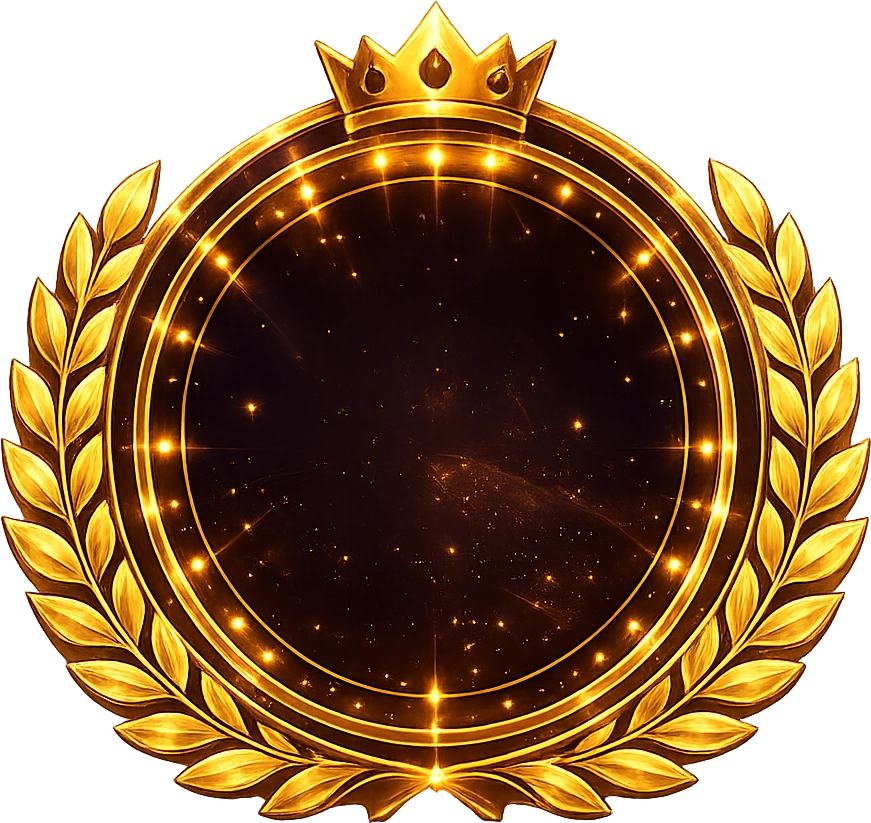
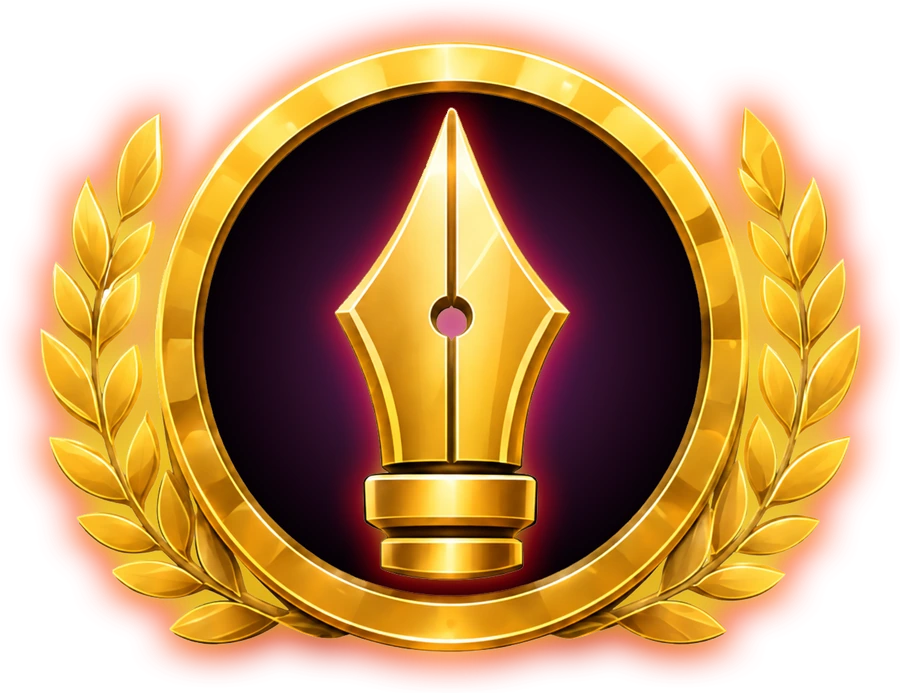
v2.141.0: Ronde voltooid dichter op de mockup, met de nieuwe medaille en een balk van code
DE MEDAILLE is de nieuwe plaat, en die draagt de pen ER AL IN. De lege krans met
het muntlogo als tweede laag erin is daarmee weg, en met hem het gereken aan het
hart van die binnencirkel.

DE BALK is nu code in plaats van art: de achthoek van alle secties, met een
gouden lijn en een donkere vulling op dertig procent, zodat de confetti en de
gloed erachter meespelen in plaats van te worden afgedekt. De middenkolom houdt
de BREEDTE van de medaille vrij en niet zijn hoogte; op zijn hoogte legde hij
zijn krans over "+75 Munten" heen.

KORTER, zoals gevraagd: de kop in kapitalen, "Geweldig gedaan!" weg, de uitleg
over kaarten en sporen weg, de voetregel met de letter weg, en de sporenrij van
twaalf naar negen woorden.

DICHTER OP DE MOCKUP: elke voortgangsrij krijgt zijn teken (het icoon van de
categorie, of de letter in een ring), en achter het percentage staat wat deze
ronde erbij bracht. Dat laatste is het enige getal op de pagina dat over DEZE
ronde gaat in plaats van over waar je staat. De quizknop kreeg zijn pijl.

diff --git a/frontend/src/components/RondeVoltooid.tsx b/frontend/src/components/RondeVoltooid.tsx
@@ -16,7 +16,7 @@
 // Verder is alles code: dezelfde GoudKader met binnenlijn als de rest van de
 // laatste schermen, zodat deze pagina bij Oefenen hoort en niet erop lijkt.
 import { useEffect, useMemo, useState } from "react";
-import { Brain, Check, Flame, Layers, RotateCw, Target, X as Kruis } from "lucide-react";
+import { Apple, Brain, Briefcase, Building2, ChevronRight, Check, Flame, Globe, Layers, PawPrint, RotateCw, Target, X as Kruis } from "lucide-react";
 import { Button } from "./Button";
 import { CloseIcon } from "./CloseIcon";
 import { GoudKader } from "./GoudKader";
@@ -27,39 +27,27 @@ import { useT } from "../i18n/i18n";
 import { sound } from "../sound/sound";
 import { colors, font, withAlpha } from "../theme/tokens";
 
-/** De krans, opgemeten op /ui/krans.webp (871 x 823).
+/** De medaille. De nieuwe plaat draagt de pen ER AL IN, dus de lege krans met
+ *  het muntlogo als tweede laag erin kan weg, en daarmee ook het gereken aan het
+ *  hart van die binnencirkel.
  *
- *  Het donkere binnenveld is met een flood fill vanuit het hart gevonden: 572 bij
- *  576 pixels, oppervlak 253593 tegen 258767 voor een perfecte ellips met die
- *  doos, dus het IS een cirkel. Daar gaat het muntlogo in. De krans zelf hangt
- *  hoger dan zijn doos suggereert, want de kroon zit erbovenop; vandaar dat het
- *  hart van de cirkel op 53,6% van de hoogte ligt en niet op de helft. */
-const KRANS = { verh: 871 / 823, hartX: 0.4994, hartY: 0.5358, cirkel: 0.6567 };
+ *  ?v=2 omdat de plaat is vervangen: /ui/ staat cache-first in de service
+ *  worker, dus zonder nieuwe URL houdt een geinstalleerde app de oude. */
+const KRANS_ART = "/ui/krans.webp?v=2";
+/** Verhouding van die plaat (1294 x 996 na het uitsnijden). Nodig om in de balk
+ *  zijn BREEDTE vrij te houden: reserveer je alleen zijn hoogte, dan legt hij
+ *  zijn krans over "+75 Munten" heen. */
+const KRANS_VERH = 1294 / 996;
 
-/** De balk, opgemeten op /ui/balk-goud.webp (1292 x 281).
- *
- *  De gouden lijst loopt boven tot y 27 en onder vanaf y 219; links en rechts
- *  is de rand schuin, dus de veilige binnenmaat is gemeten op een kwart en
- *  driekwart hoogte (x 82..1210 en 106..1187). Het hart van het VELD ligt op
- *  43,8% van de hoogte en niet op de helft: de onderrand met zijn gloed is
- *  dikker dan de bovenrand. */
-const BALK = { verh: 1292 / 281, l: 0.055, r: 0.055, t: 0.096, b: 0.221, hart: 0.438 };
+/** Hoe hoog de medaille is ten opzichte van de balk. Boven de 1 steekt hij er
+ *  boven en onder uit en wordt de balk zijn voetstuk; dat is wat de mockup doet
+ *  en het is ook wat het beeld draagt. */
+const KRANS_OP_BALK = 1.5;
 
-/** Hoe groot de krans is ten opzichte van de balk. Op 1 zou hij precies zo hoog
- *  zijn als de balk en dan is het een medaille IN een balk; hierboven steekt hij
- *  er boven en onder uit en wordt de balk zijn voetstuk. Dat is wat de mockup
- *  doet en het is ook wat het beeld draagt.
- *
- *  1,62 en niet 1,75: bij 1,75 beslaat de krans 44% van het veld en dan lag hij
- *  over "Ervaring" en "Munten" heen. Zie MIDDEN. */
-const KRANS_OP_BALK = 1.62;
-
-/** Hoe breed de middenkolom van de balk is, als deel van het VELD. Daar staat de
- *  krans, dus dit moet minstens zijn breedte zijn, anders schuift de tekst
- *  eronder. De krans meet KRANS_OP_BALK / BALK.verh / KRANS.verh van de
- *  balkbreedte, wat op deze getallen 33,3% is; het veld is 89% van de balk, dus
- *  de krans is 37,4% van het veld en 40% laat er nog een kier omheen. */
-const MIDDEN = "40%";
+/** De hoogte van de balk zelf, in punten. De balk is nu code en geen plaat meer,
+ *  dus hij heeft geen verhouding die zijn hoogte bepaalt: die komt uit wat erin
+ *  staat (een teken van 22 met een getal van 20 erboven een label van 10). */
+const BALK_HOOG = 62;
 
 const SNIPPERS = [colors.gold, colors.goldHi, colors.violet, colors.green, "#FF7AC2", colors.orange];
 
@@ -195,29 +183,28 @@ function XpTeken({ maat = 30 }: { maat?: number }) {
   );
 }
 
-/** De kop: krans op de balk, met links de XP en rechts de munten.
+/** De kop: de medaille op de balk, met links de XP en rechts de munten.
  *
- *  De krans ligt als losse laag OVER de balk en telt niet mee voor de hoogte
- *  van de balk; de ruimte die hij erboven nodig heeft komt als padding op het
- *  omhulsel. Anders zou de balk meegroeien met de krans en zijn verhouding
- *  verliezen. */
+ *  De balk is CODE en geen plaat: een brede gouden achthoeklijn met een donkere
+ *  vulling op dertig procent, zodat de confetti en de gloed erachter meespelen
+ *  in plaats van te worden afgedekt. Dezelfde achthoek als alle secties in de
+ *  app, dus hij hoort er vanzelf bij.
+ *
+ *  De medaille ligt als losse laag OVER de balk en telt niet mee voor de hoogte;
+ *  de ruimte die hij erboven en eronder nodig heeft komt als padding op het
+ *  omhulsel. */
 function Kroon({ xp, munten }: { xp: number; munten: number }) {
   const { t } = useT();
+  const medaille = BALK_HOOG * KRANS_OP_BALK;
+  const oversteek = (medaille - BALK_HOOG) / 2;
   return (
-    <div style={{ position: "relative", width: "100%", paddingTop: `${((KRANS_OP_BALK - 1) * 100) / BALK.verh / 2}%` }}>
-      <div style={{ position: "relative", width: "100%", aspectRatio: `${BALK.verh}` }}>
-        <img
-          src="/ui/balk-goud.webp" alt="" aria-hidden draggable={false}
-          style={{ position: "absolute", inset: 0, width: "100%", height: "100%", display: "block" }}
-        />
-        {/* Het veld binnen de lijst. De middenkolom is lucht: daar staat de
-            krans, en tekst eronder zou erachter verdwijnen. */}
+    <div style={{ position: "relative", width: "100%", paddingTop: oversteek, paddingBottom: oversteek }}>
+      <GoudKader hoek={16} rond={2.5} dik={0.9} vulKleur="rgba(6,2,18,.3)" binnenlijn binnenSterkte={0.16} padding={0}>
         <div
           style={{
-            position: "absolute",
-            left: `${BALK.l * 100}%`, right: `${BALK.r * 100}%`,
-            top: `${BALK.t * 100}%`, bottom: `${BALK.b * 100}%`,
-            display: "grid", gridTemplateColumns: `1fr ${MIDDEN} 1fr`, alignItems: "center", gap: 2,
+            height: BALK_HOOG,
+            display: "grid", gridTemplateColumns: `1fr ${Math.round(medaille * KRANS_VERH + 6)}px 1fr`,
+            alignItems: "center", gap: 2, padding: "0 14px",
           }}
         >
           <Winst teken={<XpTeken maat={22} />} waarde={xp} label={t("rvXp")} kleur={colors.ink} />
@@ -227,35 +214,18 @@ function Kroon({ xp, munten }: { xp: number; munten: number }) {
             waarde={munten} label={t("rvMunten")} kleur={colors.gold} rechts
           />
         </div>
+      </GoudKader>
 
-        {/* De krans, gecentreerd op het HART VAN HET VELD en niet op de doos:
-            de onderrand van de balk is dikker dan de bovenrand, dus op 50% zou
-            hij zichtbaar te laag hangen. */}
-        <div
-          style={{
-            position: "absolute", left: "50%", top: `${BALK.hart * 100}%`,
-            transform: "translate(-50%, -50%)",
-            width: `${(KRANS_OP_BALK * 100) / BALK.verh / KRANS.verh}%`,
-            aspectRatio: `${KRANS.verh}`,
-          }}
-        >
-          <img
-            src="/ui/krans.webp" alt="" aria-hidden draggable={false}
-            style={{ position: "absolute", inset: 0, width: "100%", height: "100%", display: "block" }}
-          />
-          {/* Het muntlogo in de binnencirkel. Op 62% van die cirkel: vol zou het
-              tegen de binnenring plakken, en dan lezen twee ringen als een. */}
-          <img
-            src="/logo-klein.webp" alt="" aria-hidden draggable={false}
-            style={{
-              position: "absolute",
-              left: `${KRANS.hartX * 100}%`, top: `${KRANS.hartY * 100}%`,
-              width: `${KRANS.cirkel * 62}%`, transform: "translate(-50%, -50%)",
-              display: "block",
-            }}
-          />
-        </div>
-      </div>
+      {/* De medaille, op het hart van de balk. Hij draagt de pen zelf al, dus er
+          ligt niets meer overheen. */}
+      <img
+        src={KRANS_ART} alt="" aria-hidden draggable={false}
+        style={{
+          position: "absolute", left: "50%", top: "50%", transform: "translate(-50%, -50%)",
+          height: medaille, width: "auto", maxWidth: "none", display: "block",
+          filter: "drop-shadow(0 4px 12px rgba(0,0,0,.55))",
+        }}
+      />
     </div>
   );
 }
@@ -347,13 +317,52 @@ function KaartTegel({ kaart }: { kaart: NieuweKaart }) {
   );
 }
 
+/** Het teken voor een voortgangsrij: de categorie krijgt zijn eigen icoon, de
+ *  letter zichzelf in een ring. Uit de mockup, en het scheelt lezen: je ziet aan
+ *  de vorm al of de rij over een categorie of over de letter gaat. */
+const CAT_TEKEN: Record<string, typeof Globe> = {
+  land: Globe, stad: Building2, vrucht: Apple, dier: PawPrint, beroep: Briefcase,
+};
+
+function VoortgangTeken({ v }: { v: Voortgang }) {
+  const maat = 30;
+  const ring: React.CSSProperties = {
+    width: maat, height: maat, borderRadius: "50%", flexShrink: 0,
+    display: "grid", placeItems: "center",
+    background: "rgba(0,0,0,.42)",
+    boxShadow: `inset 0 0 0 1.5px ${withAlpha(v.soort === "letter" ? colors.gold : colors.violet, 0.75)}`,
+  };
+  if (v.soort === "letter") {
+    return (
+      <span style={ring} aria-hidden>
+        <span style={{ fontFamily: font.display, fontWeight: 800, fontSize: 15, lineHeight: 1, color: colors.gold }}>
+          {v.label.toUpperCase()}
+        </span>
+      </span>
+    );
+  }
+  const Teken = CAT_TEKEN[v.sleutel.toLowerCase()] ?? Layers;
+  return (
+    <span style={ring} aria-hidden>
+      <Teken size={15} color="#C89BFF" />
+    </span>
+  );
+}
+
 /** Een voortgangsbalk met zijn kop en het aantal dat erbij kwam. */
 function BalkRij({ v }: { v: Voortgang }) {
   const { t } = useT();
   const pct = v.total > 0 ? Math.min(100, Math.round((v.have / v.total) * 100)) : 0;
+  // Hoeveel procent er deze ronde bij kwam. Uit de mockup, en het is het enige
+  // getal op deze pagina dat zegt wat DEZE ronde deed in plaats van waar je
+  // staat.
+  const voor = v.total > 0 ? Math.round(((v.have - v.plus) / v.total) * 100) : 0;
+  const delta = Math.max(0, pct - voor);
   const label = v.soort === "letter" ? t("rvLetterLabel", { letter: v.label }) : v.label;
   return (
-    <div style={{ display: "flex", flexDirection: "column", gap: 4, minWidth: 0 }}>
+    <div style={{ display: "flex", gap: 8, minWidth: 0 }}>
+      <VoortgangTeken v={v} />
+      <div style={{ flex: 1, minWidth: 0, display: "flex", flexDirection: "column", gap: 4 }}>
       <div style={{ display: "flex", alignItems: "baseline", gap: 6 }}>
         <span style={{ flex: 1, minWidth: 0, fontFamily: font.display, fontWeight: 700, fontSize: 12.5, color: colors.ink, overflow: "hidden", textOverflow: "ellipsis", whiteSpace: "nowrap" }}>
           {label}
@@ -382,7 +391,13 @@ function BalkRij({ v }: { v: Voortgang }) {
           }}
         />
       </div>
-      <span style={{ fontFamily: font.display, fontWeight: 700, fontSize: 11, color: colors.gold }}>{pct}%</span>
+      <div style={{ display: "flex", alignItems: "baseline", gap: 5 }}>
+        <span style={{ fontFamily: font.display, fontWeight: 700, fontSize: 11, color: colors.gold }}>{pct}%</span>
+        {delta > 0 && (
+          <span style={{ fontFamily: font.display, fontWeight: 700, fontSize: 10, color: colors.green }}>▲+{delta}%</span>
+        )}
+      </div>
+      </div>
     </div>
   );
 }
@@ -406,7 +421,6 @@ function Prestatie({ teken, label, waarde, na }: {
 }
 
 export function RondeVoltooid({
-  letter,
   goed,
   fout,
   kaarten,
@@ -416,7 +430,6 @@ export function RondeVoltooid({
   onOntdekken,
   onQuiz,
 }: {
-  letter: string;
   /** Antwoorden die in de lijst stonden, over deze oefensessie. */
   goed: number;
   /** Antwoorden die fout of leeg waren, over dezelfde sessie. */
@@ -505,9 +518,8 @@ export function RondeVoltooid({
                 accent={colors.gold} blur={16} glow={0.65}
                 style={{ fontFamily: font.display, fontWeight: 800, fontSize: "clamp(23px, 7.6vw, 30px)", lineHeight: 1.05 }}
               >
-                {t("rvTitel")}
+                {t("rvTitel").toUpperCase()}
               </NeonText>
-              <div style={{ marginTop: 3, fontFamily: font.ui, fontSize: 13, color: colors.ink }}>{t("rvSub")}</div>
             </div>
 
             {/* ---- de beloning ---- */}
@@ -534,9 +546,14 @@ export function RondeVoltooid({
               <GoudKader {...vak}>
                 <SierKop label={t("rvKaartenKop")} />
                 {gehaald.length === 0 ? (
-                  <p style={{ margin: "8px 0 2px", fontFamily: font.ui, fontSize: 11.5, lineHeight: 1.4, color: colors.sub, textAlign: "center" }}>
-                    {sporen.length > 0 ? t("rvGeenGehaaldUitleg") : t("rvGeenKaarten")}
-                  </p>
+                  // Alleen de kale mededeling als er ook geen sporen zijn. De
+                  // uitleg eronder is weg: die maakte van een korte sectie een
+                  // lap tekst, en wie sporen ziet staan snapt het uit de rij.
+                  sporen.length === 0 ? (
+                    <p style={{ margin: "8px 0 2px", fontFamily: font.ui, fontSize: 11.5, lineHeight: 1.4, color: colors.sub, textAlign: "center" }}>
+                      {t("rvGeenKaarten")}
+                    </p>
+                  ) : null
                 ) : (
                   <div style={{ display: "grid", gridTemplateColumns: `repeat(${toon.length}, 1fr) 1.05fr`, gap: 6, marginTop: 7 }}>
                     {toon.map((k) => <KaartTegel key={k.id} kaart={k} />)}
@@ -577,7 +594,7 @@ export function RondeVoltooid({
                       </span>
                     </div>
                     <div style={{ display: "flex", flexWrap: "wrap", gap: 4 }}>
-                      {sporen.slice(0, 12).map((k) => (
+                      {sporen.slice(0, 9).map((k) => (
                         <span
                           key={k.id}
                           style={{
@@ -590,9 +607,6 @@ export function RondeVoltooid({
                         </span>
                       ))}
                     </div>
-                    <p style={{ margin: "6px 0 0", fontFamily: font.ui, fontSize: 9.5, lineHeight: 1.35, color: colors.faint }}>
-                      {t("rvSporenUitleg")}
-                    </p>
                   </div>
                 )}
               </GoudKader>
@@ -640,7 +654,9 @@ export function RondeVoltooid({
                       {t("rvQuizBody")}
                     </span>
                     <Button variant="gold" full compact onClick={() => { sound.uiTap(); onQuiz(); }} style={{ fontSize: 12.5 }}>
-                      {t("rvQuizKnop")}
+                      <span style={{ display: "inline-flex", alignItems: "center", gap: 4 }}>
+                        {t("rvQuizKnop")} <ChevronRight size={14} />
+                      </span>
                     </Button>
                   </div>
                 </GoudKader>
@@ -675,12 +691,6 @@ export function RondeVoltooid({
               )}
             </div>
 
-            {/* De letter waar dit over ging, als voetregel: de popup zelf noemt
-                hem nergens meer en zonder dat is het na twee rondes niet meer
-                terug te zien welke ronde dit was. */}
-            <span style={{ fontFamily: font.ui, fontSize: 10, color: colors.faint, textAlign: "center" }}>
-              {t("rvLetterVoet", { letter })}
-            </span>
           </div>
         </GoudKader>
       </div>

diff --git a/frontend/src/components/GoudKader.tsx b/frontend/src/components/GoudKader.tsx
@@ -46,6 +46,7 @@ export function GoudKader({
   gloedMaat = 1,
   gloedKlasse,
   vulling = false,
+  vulKleur,
   vullingArt,
   binnenlijn = false,
   binnenSterkte = 0.2,
@@ -97,6 +98,10 @@ export function GoudKader({
    *  een vak dat OP zo'n sectie ligt: met dezelfde vulling lopen de twee
    *  onderin in elkaar over en verdwijnt de onderrand van het bovenste vak. */
   vulling?: boolean | "licht";
+  /** Een eigen vulling in plaats van het paarse verloop: elke geldige CSS-kleur,
+   *  dus ook een doorzichtige. Handig voor een vlak dat de achtergrond moet
+   *  laten meespelen in plaats van hem af te dekken. */
+  vulKleur?: string;
   /** Vul het vak met ART in plaats van met het verloop hierboven.
    *
    *  DE AFBEELDING WORDT OP DE ACHTHOEK GEKNIPT. Een plaatje in een gewone doos
@@ -162,7 +167,7 @@ export function GoudKader({
   // Een vak met art erin is net zo goed een vak met een binnenkant: de lijn
   // eromheen hoort dus hetzelfde licht te volgen (van boven), of de binnenkant
   // nu een verloop is of een plaatje.
-  const heeftVulling = !!vulling || !!vullingArt;
+  const heeftVulling = !!vulling || !!vullingArt || !!vulKleur;
 
   /** De acht punten van de achthoek, `naarBinnen` pixels naar binnen geschoven.
    *  Een vorm die overal even ver naar binnen gaat, krijgt een kleinere schuine
@@ -397,6 +402,7 @@ export function GoudKader({
           </defs>
 
           {/* De binnenkant eerst, want alles wat lijn is hoort erbovenop. */}
+          {vulKleur && !vulling && !vullingArt && <path d={punten} fill={vulKleur} />}
           {vulling && !vullingArt && <path d={punten} fill={`url(#${id}v)`} />}
           {vullingArt && (
             // `slice` is wat `cover` is voor een achtergrond: vullen en de rest

diff --git a/frontend/src/screens/Training.tsx b/frontend/src/screens/Training.tsx
@@ -461,7 +461,6 @@ export function Training({ onBack, lenient = false, onOntdekken, startLetter, on
     <Screen top={header}>
       {voltooid && (
         <RondeVoltooid
-          letter={voltooid.letter}
           goed={sessionCorrect}
           fout={sessionFout}
           kaarten={voltooid.new_cards ?? []}

diff --git a/frontend/src/version.ts b/frontend/src/version.ts
@@ -1,2 +1,2 @@
 // Bump per user-facing release. Shown in Settings > About.
-export const APP_VERSION = "2.140.0";
+export const APP_VERSION = "2.141.0";
